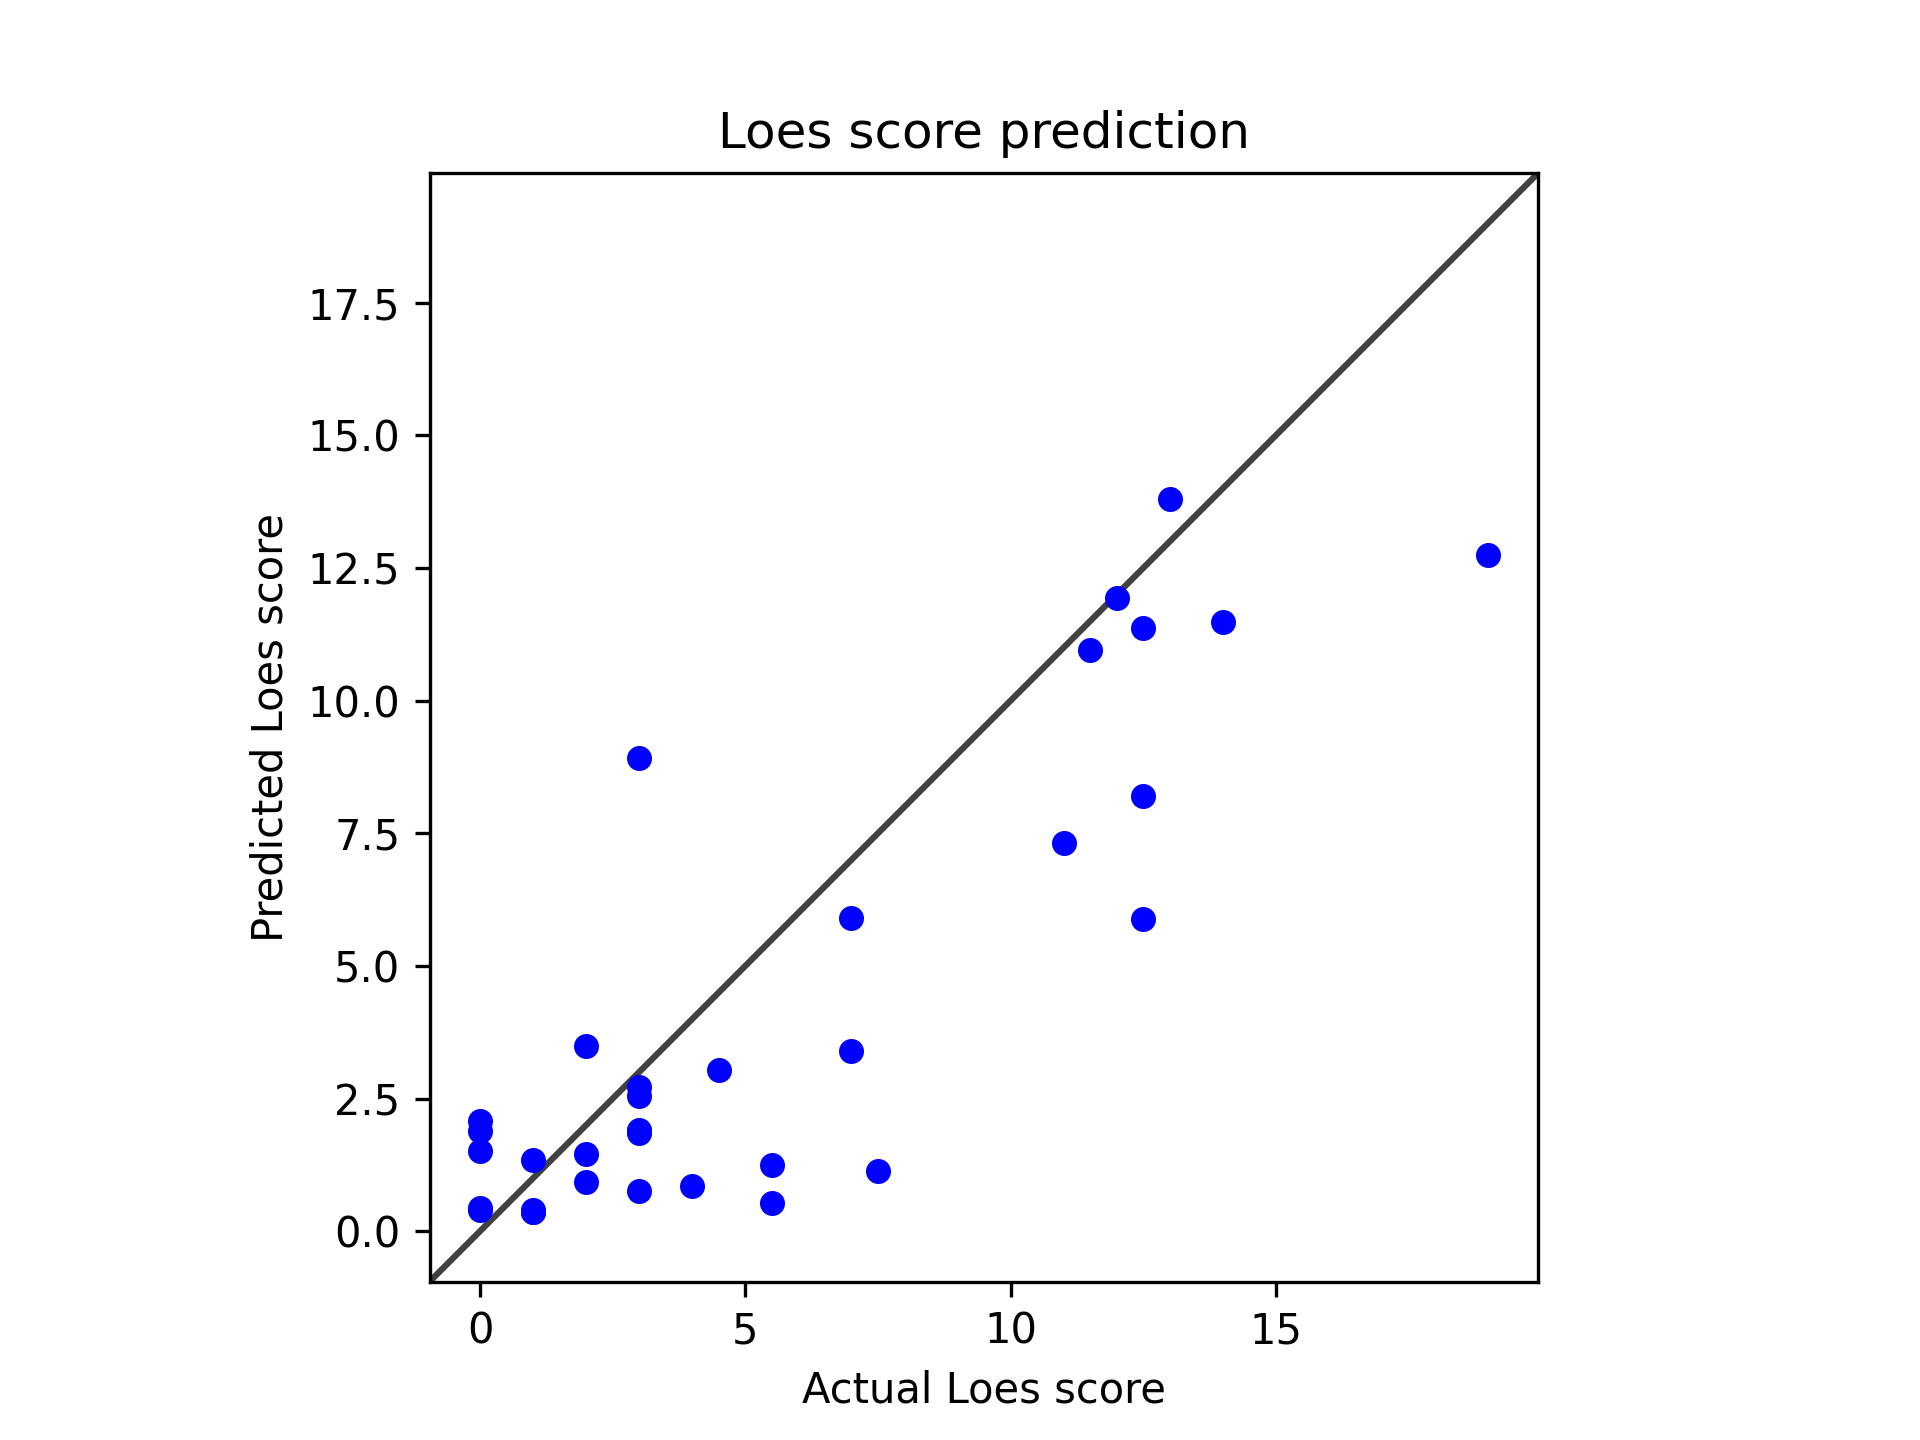
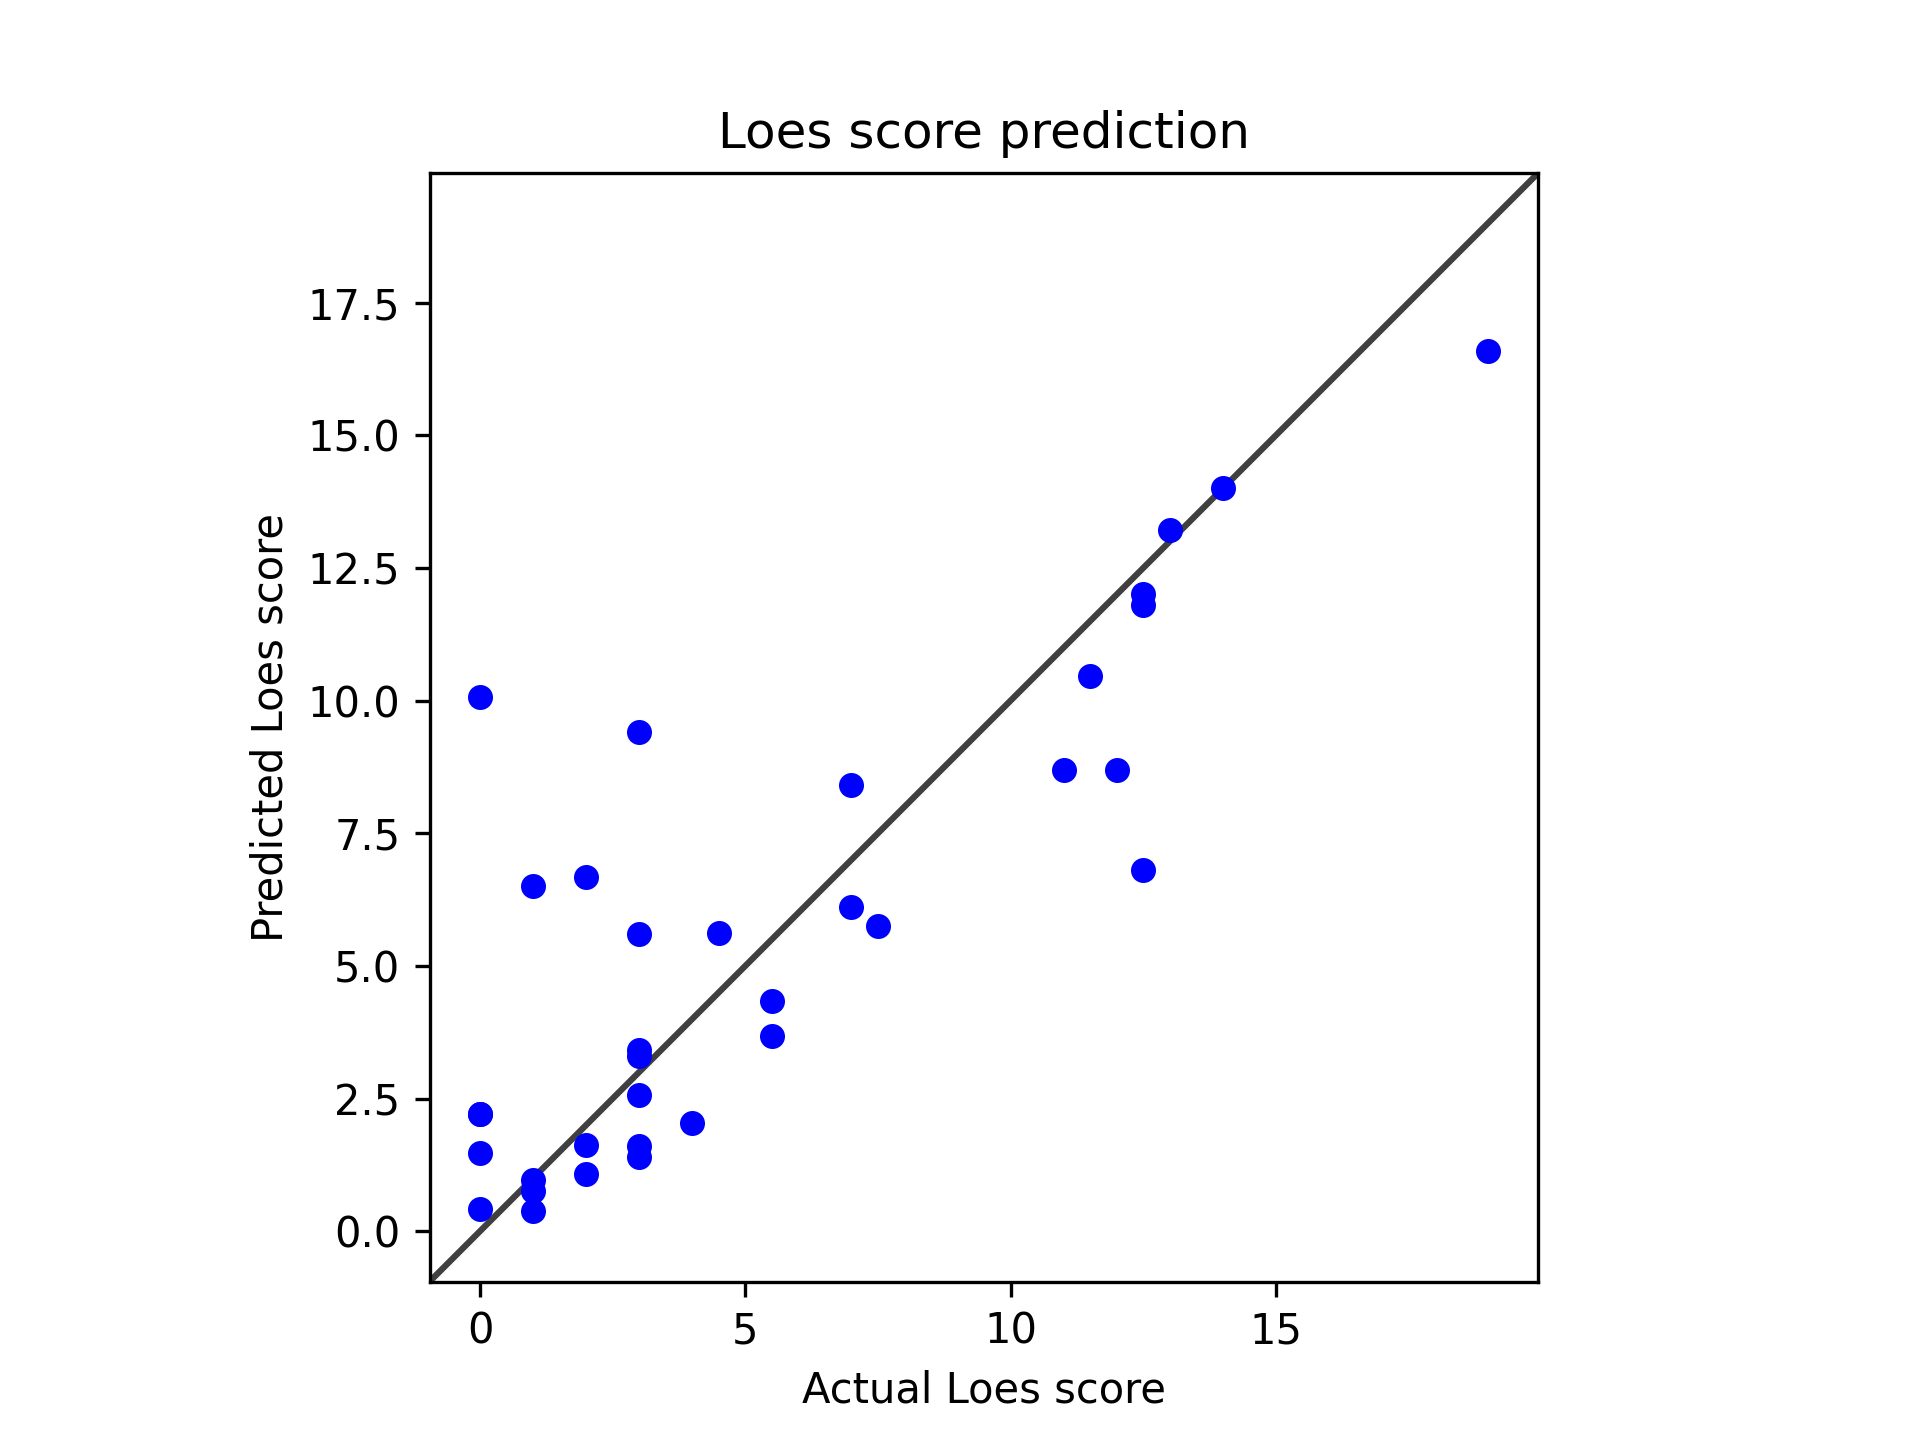
Added correlation coefficient.

diff --git a/src/dcan/inference/make_predictions.py b/src/dcan/inference/make_predictions.py
@@ -35,7 +35,7 @@ def load_model(model_name, model_save_location, device='cpu'):
     return model
     
 
-def predict(row):
+def predict(row, is_batched=True):
     subject = row['anonymized_subject_id']
     session = row['anonymized_session_id']
     mprage_path = f'/home/feczk001/shared/projects/S1067_Loes/data/Fairview-ag/05-training_ready/{subject}_{session}_space-MNI_brain_mprage_RAVEL.nii.gz'
@@ -53,9 +53,10 @@ def get_image_tensor(mprage_path):
     transformed_mprage_image = transform(mprage_image)
     mprage_image_tensor = transformed_mprage_image.data
     input_g = mprage_image_tensor.to('cpu', non_blocking=True)
-    batch_tensor = input_g.unsqueeze(0)
+    # TODO Fix.  Should not do unsqueeze here. 
+    # batch_tensor = input_g.unsqueeze(0)
     
-    return batch_tensor
+    return input_g
 
 
 import torch.nn.functional as F

diff --git a/doc/models/model15/model15.md b/doc/models/model15/model15.md
@@ -1,3 +1,16 @@
-standardized_rmse: 0.5646745425613017
-model "AlexNet"
+# Model 15
 
+* Model type: ResNet
+* Epochs: 256
+* data: */users/9/reine097/projects/loes-scoring-2/data/anon_train_scans_and_loes.csv*
+* Gd: Unenhanced scans.
+* Standardized RMSE: 0.564280574055299
+![Model 15](model15.png "Model 15")
+* correlation:    0.8227921505229698
+* SLURM script: [*loes-scoring-training_model_agate_14.sh*](../../../bin/training/loes-scoring-training_model_agate_15.sh)
+* Epochs: 256
+* lr: 0.0001
+* output_csv: [*model15.csv*](model15.csv)
+* model: */home/feczk001/shared/data/AlexNet/LoesScoring/loes_scoring_14_512.pt*
+* Pearson correlation p-value: 1.3197536844215122e-09
+* Spearman correlation p-value: 6.769169521483917e-07
